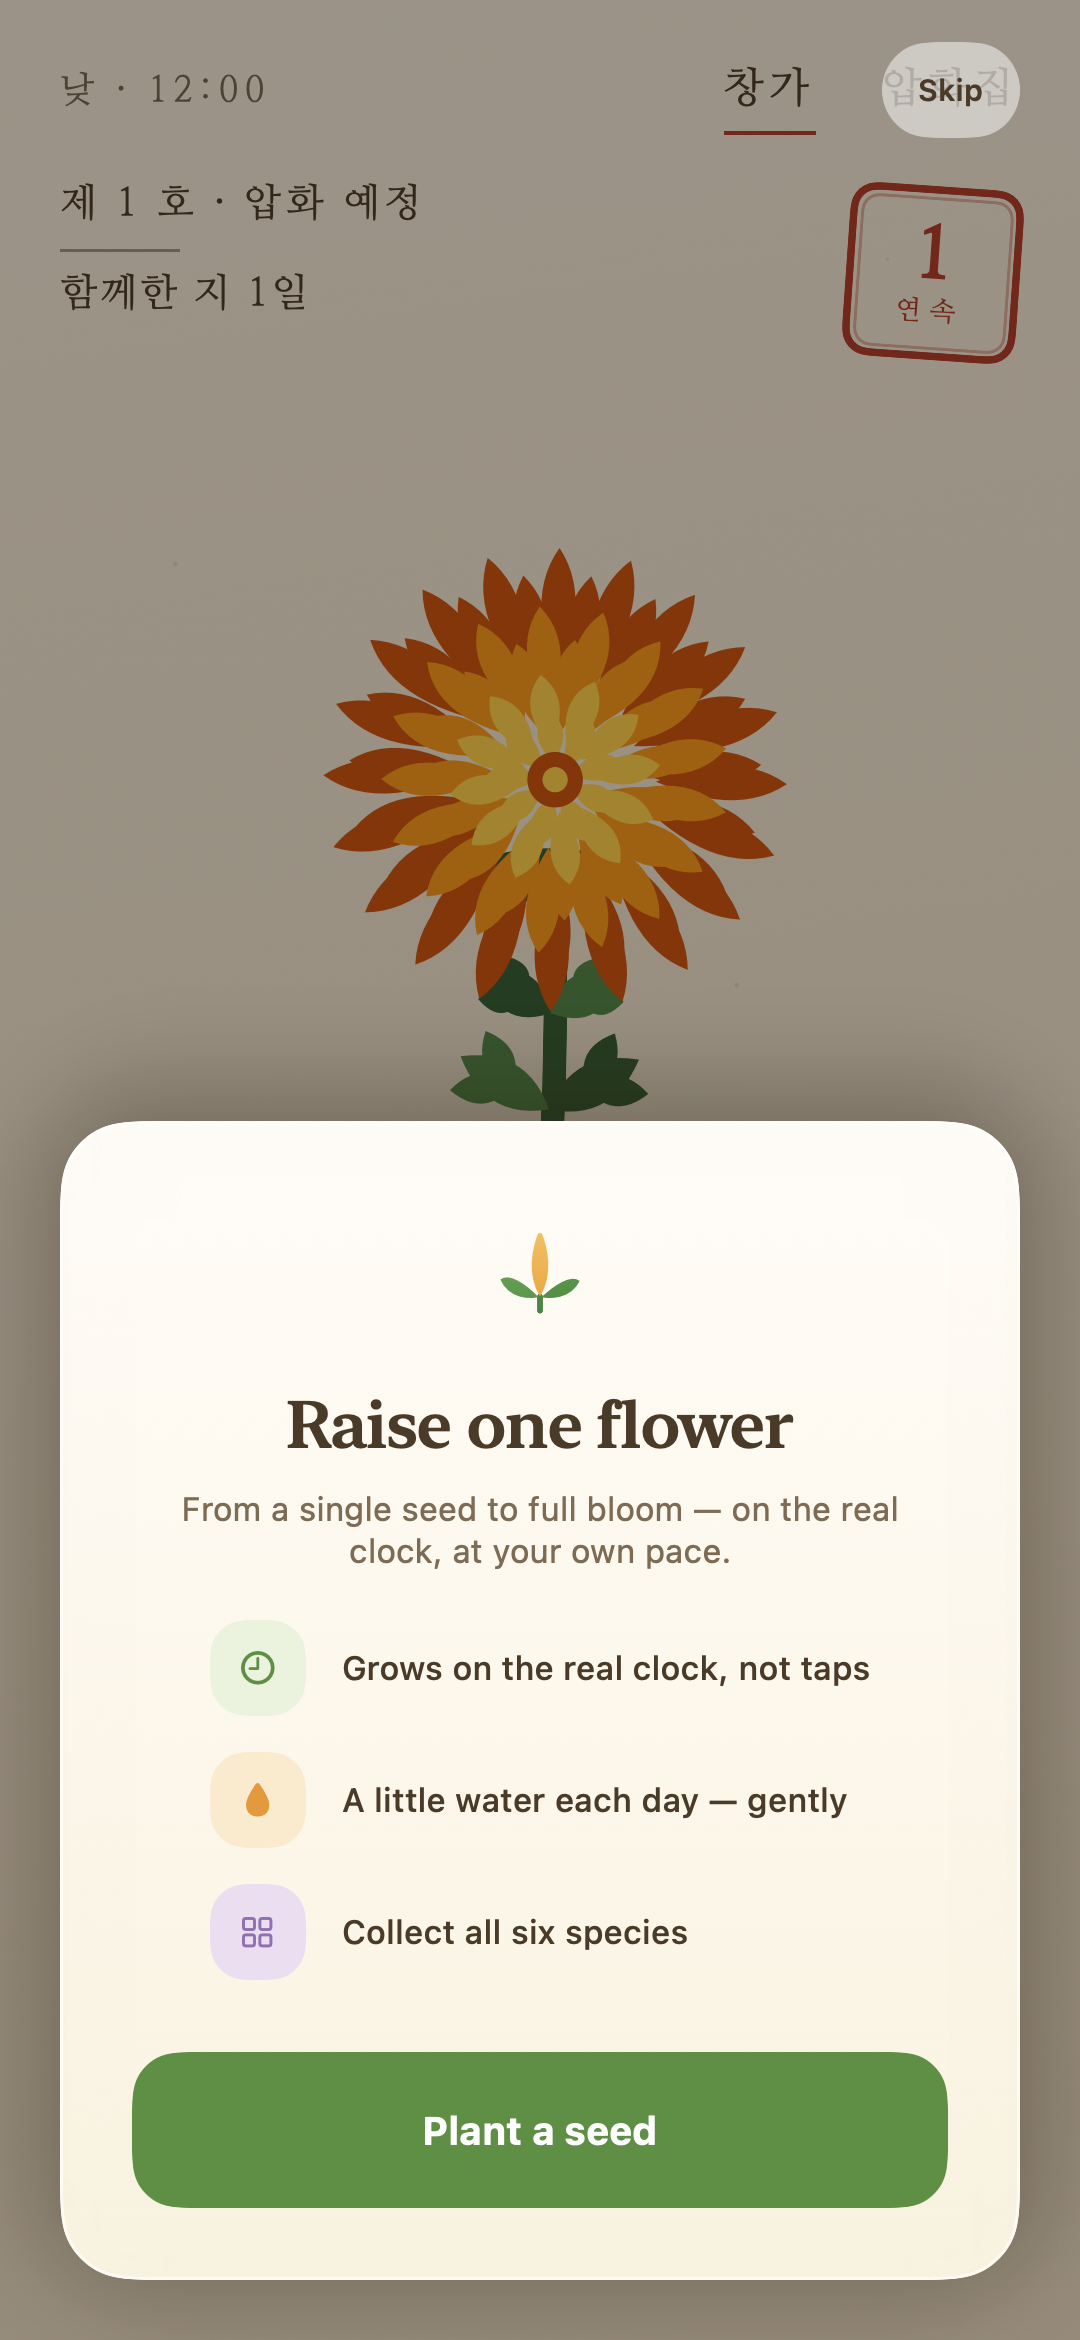
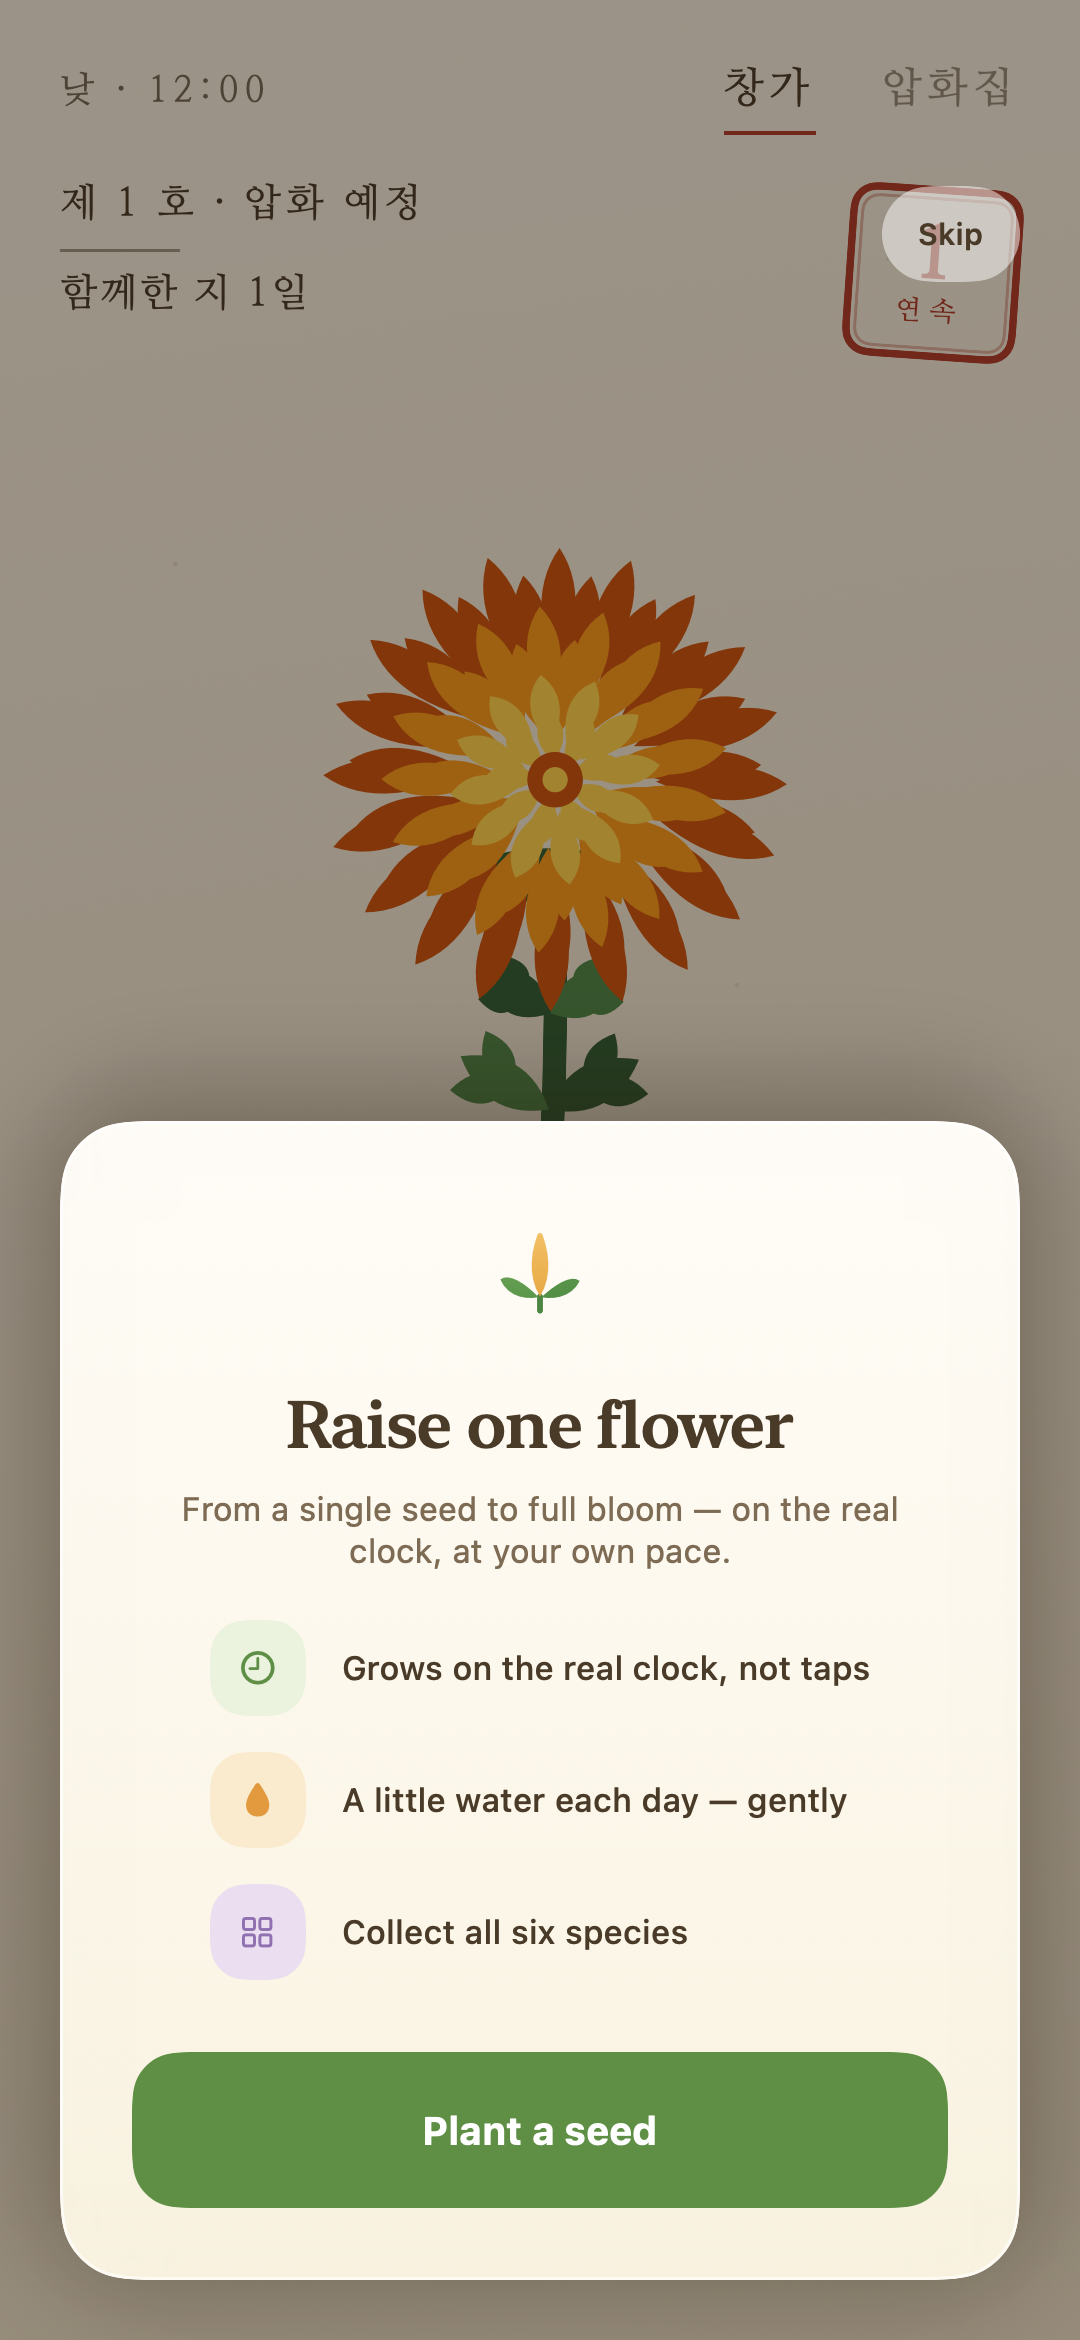
polish(round3): retire the glass kit; guide Skip clears the ink nav (T5)
TopNavPill, WaterButton, GlassIconButton, StreakBadge, MoistChip,
DropGauge, WateredTodayTick, SsakGlass, and ssakGround have no consumers
after the ink swap — deleted with their harness showcase renders.
StartGuide's Skip drops below the top-right nav row. Full pass: 39+4+10
tests, all references re-rendered, iOS Simulator build green.

Changed region(s): [[0.7944, 0.0, 0.9472, 0.1248]]

diff --git a/SsakApp/Sources/SsakAppRender/Render.swift b/SsakApp/Sources/SsakAppRender/Render.swift
@@ -28,51 +28,6 @@ struct Render {
             print("wrote \(name)")
         }
 
-        // Task 3: gauge states + status chrome, on a soft card.
-        // Demo fractions → the SoilState the real UI would derive (fraction × moistureMax).
-        func soilFor(_ f: Double) -> SoilState { SoilState(moisture: f * GrowthTuning.default.moistureMax) }
-        func gaugeCard(_ f: Double, _ label: String) -> some View {
-            VStack(spacing: 8) {
-                DropGauge(fraction: f, soil: soilFor(f)).frame(width: 70, height: 96)
-                Text(label).font(.system(size: 12)).foregroundStyle(.secondary)
-            }.padding(16)
-        }
-        let statusRow = HStack(spacing: 12) {
-            gaugeCard(0.10, "dry")
-            gaugeCard(0.55, "healthy")
-            gaugeCard(0.95, "over-full")
-            VStack(spacing: 12) {
-                WateredTodayTick().font(.system(size: 28))
-                StreakBadge(count: 4, alive: true)
-                StreakBadge(count: 2, alive: false)
-            }
-        }
-        .padding(20)
-        .background(Color(red: 0.99, green: 0.97, blue: 0.92))
-        write(statusRow, CGSize(width: 420, height: 180), "status_chrome.png")
-
-        // Round 2 T3: glass primitives — floating drop, top nav pill, chips (macOS = fallback path).
-        let glassCard = VStack(spacing: 16) {
-            TopNavPill(tab: .constant(0))
-            HStack(spacing: 16) {
-                WaterButton(action: {})
-                GlassIconButton(systemImage: "square.and.arrow.up", label: "Share", action: {})
-                GlassIconButton(systemImage: "square.and.arrow.up", label: "Share your bloom",
-                                prominent: true, action: {})
-            }
-            HStack(spacing: 16) {
-                StreakBadge(count: 4, alive: true)
-                MoistChip(fraction: 0.08, soil: soilFor(0.08))
-                MoistChip(fraction: 0.5, soil: soilFor(0.5))
-                MoistChip(fraction: 1.05, soil: soilFor(1.05))
-            }
-        }
-        .padding(24)
-        .frame(width: 400, height: 280)
-        .ssakGround()
-        write(glassCard, CGSize(width: 400, height: 280), "glass_primitives.png")
-        write(glassCard.environment(\.colorScheme, .dark), CGSize(width: 400, height: 280),
-              "glass_primitives_dark.png")
 
         // Redesign Plan A Task 2: real-time sky bands (pure now+calendar; UTC cal → reproducible).
         let skySize = CGSize(width: 300, height: 300)

diff --git a/SsakApp/Sources/SsakApp/StartGuide.swift b/SsakApp/Sources/SsakApp/StartGuide.swift
@@ -69,7 +69,7 @@ public struct StartGuide: View {
                 skip
                     .frame(maxWidth: .infinity, alignment: .trailing)
                     .padding(.trailing, Design.pad)
-                    .padding(.top, 8)
+                    .padding(.top, 56)                     // clears the top-right ink nav (round 3)
             }
         }
         .animation(reduceMotion ? nil : .easeInOut(duration: 0.4), value: step)